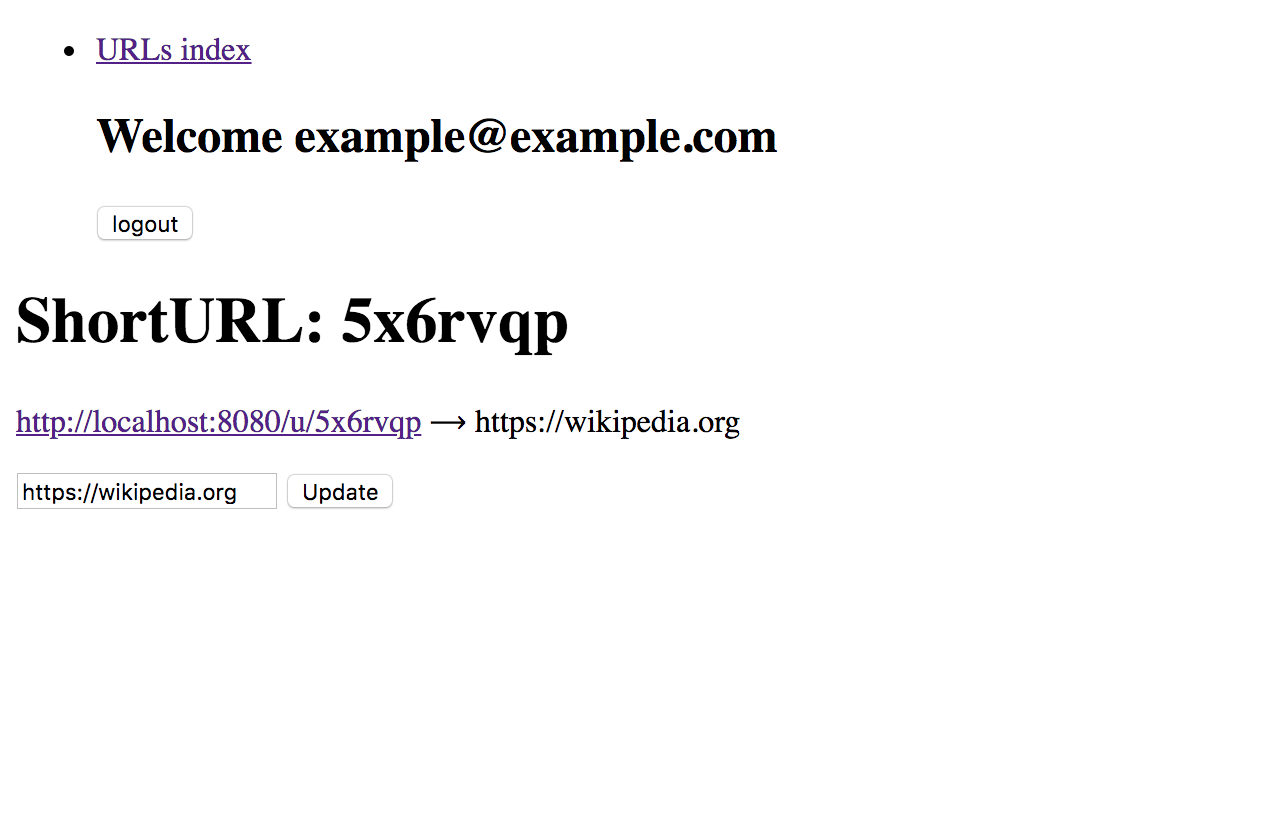
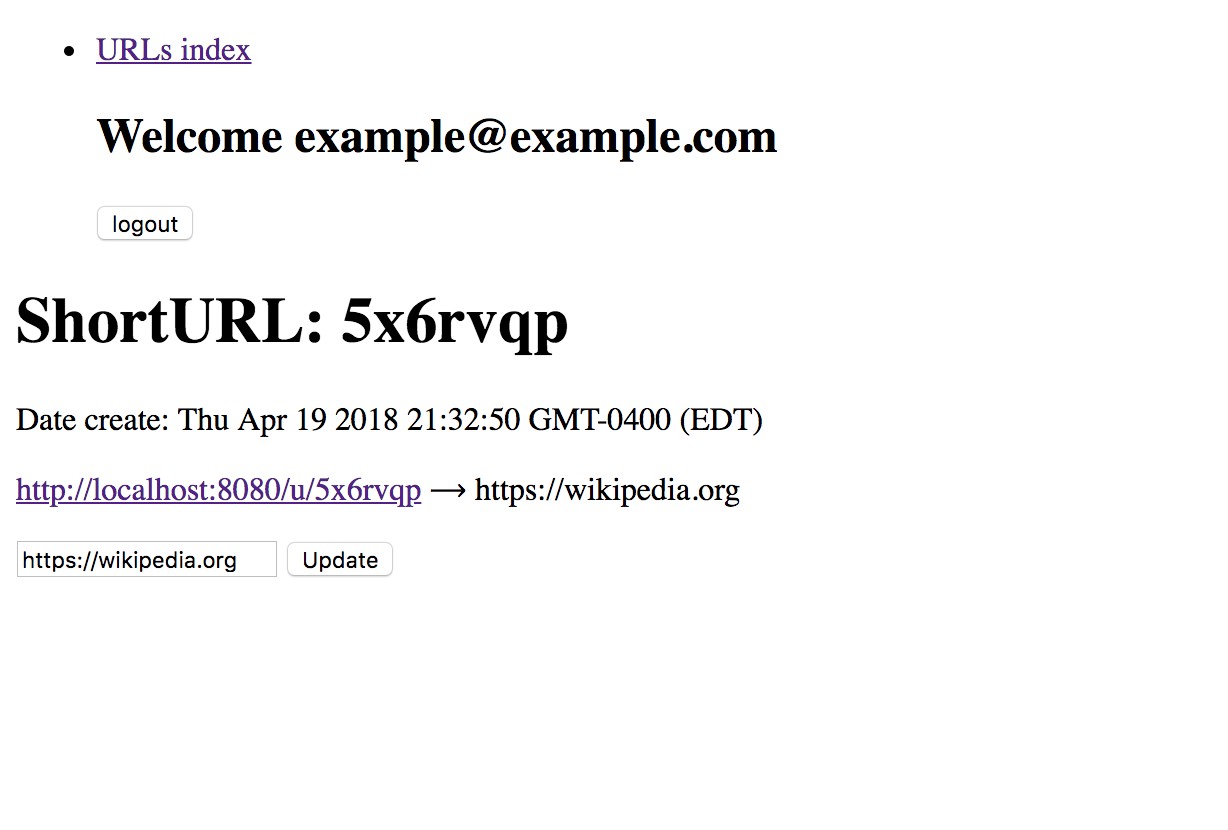
Add create dates to links

diff --git a/server.js b/server.js
@@ -18,9 +18,9 @@ app.get('/urls.json', (req, res) => {
 });
 
 const urlDatabase = {
-  'b2xVn2': { userID:'userRandomID', url:'http://www.lighthouselabs.ca' },
-  '9sm5xK': { userID:'user2RandomID', url:'http://www.google.com' },
-  '5x6rvqp': { userID:'user3RandomID', url:'https://wikipedia.org' }
+  'b2xVn2': { userID:'userRandomID', url:'http://www.lighthouselabs.ca', date: 'Thu Apr 19 2018 21:32:50 GMT-0400 (EDT)'},
+  '9sm5xK': { userID:'user2RandomID', url:'http://www.google.com', date: 'Thu Apr 19 2018 21:32:50 GMT-0400 (EDT)'},
+  '5x6rvqp': { userID:'user3RandomID', url:'https://wikipedia.org', date: 'Thu Apr 19 2018 21:32:50 GMT-0400 (EDT)' }
 };
 
 const users = {
@@ -58,9 +58,9 @@ function urlsForUser(id) {
   const shortURLs = Object.keys(urlDatabase);
   for (const shortURL of shortURLs) {
     if (urlDatabase[shortURL].userID === id) {
-      urls[shortURL] = urlDatabase[shortURL].url;
-    }
-  }
+      urls[shortURL] = urlDatabase[shortURL];
+    };
+  };
   return urls;
 }
 
@@ -75,10 +75,9 @@ app.get('/register', (req, res) => {
 app.post('/register', (req, res) => {
   const { email, password } = req.body;
   if (!email || !password) {
-    res.status(400).send('Invalid email or password');
-    if (getUser(email)) {
-      res.status(400).send('Email already in use');
-    };
+    return res.status(400).send('Invalid email or password');
+  } else if (getUser(email)) {
+    return res.status(400).send('Email already in use');
   } else {
     const newUser = {
       id: generateRandomStr(),
@@ -130,12 +129,12 @@ app.post('/login', (req, res) => {
 
 app.get('/urls', (req, res) => {
   let templateVars = {
-    urls: urlDatabase,
     user: users[req.session.user_id]
   };
   if (req.session.user_id) {
     templateVars.urls = urlsForUser(req.session.user_id);
   }
+  console.log(templateVars)
   res.render('urls_index', templateVars);
 });
 
@@ -144,7 +143,8 @@ app.get('/urls/new', (req, res) => {
     res.redirect('/login');
   } else {
     let templateVars = { urls: urlDatabase,
-      user: users[req.session.user_id]};
+      user: users[req.session.user_id]
+    };
     res.render('urls_new', templateVars);
   };
 });
@@ -155,18 +155,18 @@ app.post('/urls', (req, res) => {
   const shortURL = generateRandomStr();
   urlDatabase[shortURL] = {
     userID: req.session.user_id,
-    url: req.body.longURL};
+    url: req.body.longURL,
+    date: new Date(),
+  };
+  console.log(urlDatabase[shortURL])
   res.redirect(`/urls/${shortURL}`);
 });
 
 app.get('/urls/:id', (req, res) => {
   const { user_id } = req.session;
   const { id } = req.params;
-  console.log(id);
-  console.log(urlDatabase);
   if (!user_id) {
-
-    res.send('Please log in to edit URLs');
+    return res.send('Please log in to edit URLs');
   } else if (urlDatabase[id].userID !== user_id) {
     return res.send(`You don't have access to this page`)
   };
@@ -174,6 +174,7 @@ app.get('/urls/:id', (req, res) => {
     shortURL: id,
     longURL: urlDatabase[id].url,
     user: users[user_id],
+    date: urlDatabase[id].date
   };
   res.render('urls_show', templateVars);
 });
@@ -182,7 +183,7 @@ app.post('/urls/:id', (req, res) => {
   const { user_id } = req.session;
   const { id } = req.params;
   const { longURL } = req.body;
-  urlDatabase[id] = {userID: user_id, url:longURL};
+  urlDatabase[id] = {userID: user_id, url:longURL, date: urlDatabase[id].date};
   res.redirect(`/urls/${id}`);
 });
 

diff --git a/README.md b/README.md
@@ -94,7 +94,7 @@ so that I can learn what content they like.
                   <li> ✅ the short URL's matching long URL</li>
                   <li> ✅ an edit button which makes a GET request to <code>/urls/:id</code></li>
                   <li> ✅ a delete button which makes a POST request to <code>/urls/:id/delete</code></li>
-                  <li>(<b>Stretch</b>) the date the short URL was created</li>
+                  <li>(<b>Stretch</b>) ✅ the date the short URL was created</li>
                   <li>(<b>Stretch</b>) the number of times the short URL was visited</li>
                   <li>(<b>Stretch</b>) the number number of unique visits for the short URL</li>
                 </ul>
